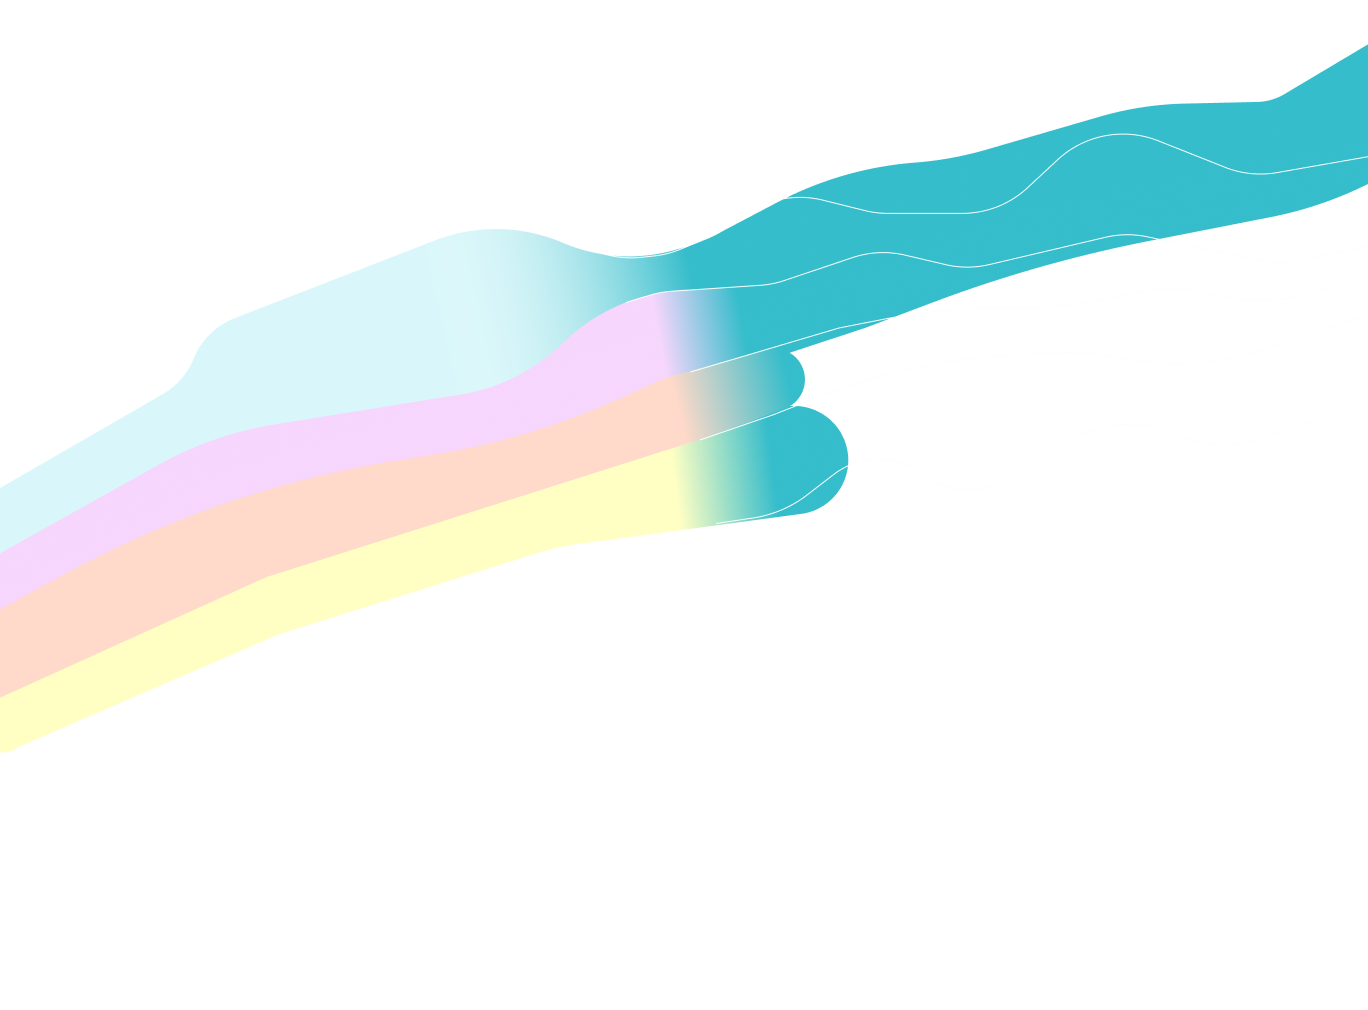
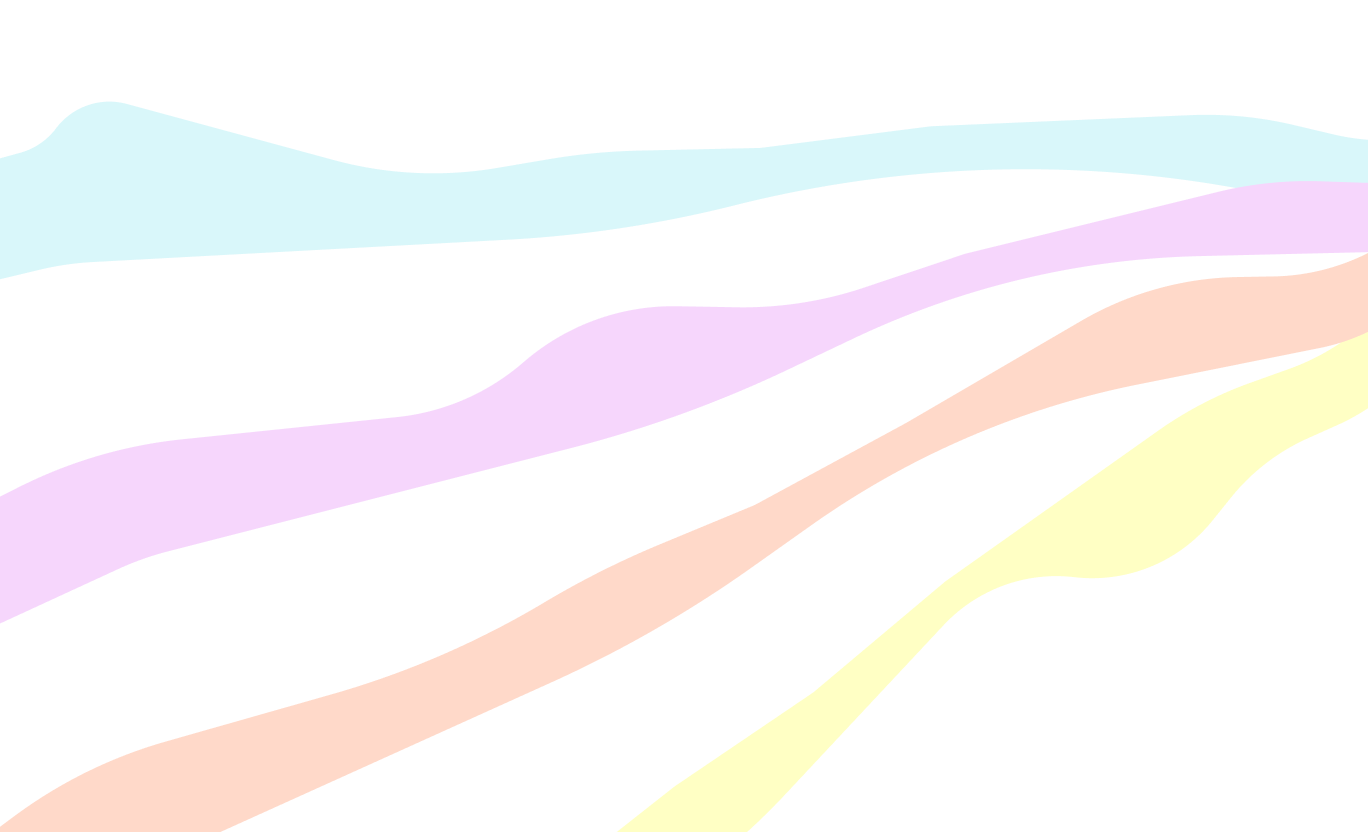
Mobile (#57)
* fix mobile

* fx mobile

* r

* reponsive mobil

diff --git a/src/sass/desktop.scss b/src/sass/desktop.scss
@@ -1,5 +1,6 @@
 @media (min-width:750px){
-  // vestes  
+  // vestes
+  
   .header {
     top:0;
     left:0;
@@ -18,6 +19,7 @@
         display:none;
       }
     }
+  
     .lis {
       position: relative;
       opacity: 1;
@@ -32,7 +34,8 @@
         color:white;
         z-index:1;
       }
-    }  
+    }
+    
     .header__logo{
       margin-top:15px;
       position: absolute;
@@ -48,6 +51,7 @@
     color:white;
     } 
   }
+ 
   .banner {
     background-color: #36BDCB;
     width: 100vw;
@@ -89,6 +93,7 @@
       position: relative;
       bottom: 20vh;
       width: 100vw;
+
     }
     .jackets {
       display: flex;
@@ -168,7 +173,6 @@
       margin-top: 24px;
       margin-bottom: 24px;
       font-family: Montserrat;
-
         a {
           text-decoration:none;
           color:white;
@@ -219,16 +223,15 @@
       font-size: 48px;
       font-family: Baloo;
     }
-    .choose__sections{
+    .yo{
       display: flex;
-      flex-direction: row;
+      flex-direction: column;
       justify-content: center;
       align-items: center;
-      background-image: url("assets/rrainbow.png");
+      background-image: url("assets/Arc-en-Ciel.png");
       background-repeat: no-repeat;
       background-size: 1fr;
       font-family: Montserrat Regular;
-
       }
       .eco__plant{
         display: flex;
@@ -236,6 +239,7 @@
         justify-content: space-evenly;
         align-items: center;
         width:60%;
+   
         p {
           b {
             font-family:Montserrat Semi-Bold;
@@ -250,6 +254,7 @@
         justify-content: space-evenly;
         align-items: center;
         width:60%;
+     
         p {
           b {
             font-family:Montserrat Semi-Bold;
@@ -263,6 +268,7 @@
         justify-content: space-evenly;
         align-items: center;
         width:60%;
+       
         p {
           b {
             font-family:Montserrat Semi-Bold;
@@ -271,35 +277,37 @@
         }
       }
     }
-  .footer {
+   .footer {
     background-color: $footercolor ;
     position: relative;
     top: 13vh;
     height: 8vh;
     display:flex;
-      .text__footer{
-        font-size: 12px;
-        width:24vw;
-        display:flex;
-        justify-content: center;  
-        align-self: center;
-        color:white;
-        font-family:Montserrat Regular;
-      }
-      .icons__footer{
-        display: flex;
-        justify-content: space-evenly;
-        align-items:center;
-        width:52vw;
-        color: #FFFFFF;
-      }
-      .text__footer1{
-        font-size: 12px;
-        display: flex;
-        justify-content:flex-end; 
-        align-items: center;
-        color: #FFFFFF;
-        font-family:Montserrat Regular;
-      }
-  } 
-}
+        .text__footer{
+          font-size: 12px;
+          width:24vw;
+          display:flex;
+          justify-content: center;  
+          align-self: center;
+          color:white;
+          font-family:Montserrat Regular;
+
+        }
+        .icons__footer{
+          display: flex;
+          justify-content: space-evenly;
+          align-items:center;
+          width:52vw;
+          color: #FFFFFF;
+        }
+        .text__footer1{
+          font-size: 12px;
+          display: flex;
+          justify-content:flex-end; 
+          align-items: center;
+          color: #FFFFFF;
+          font-family:Montserrat Regular;
+        }
+       
+      }}
+  

diff --git a/src/sass/mobile.scss b/src/sass/mobile.scss
@@ -142,7 +142,7 @@ li:not(:last-child) {
   li:not(:last-child) {
     margin-bottom: 0;
   }
-    .burger__li {
+  .burger__li {
       opacity: 1;
       font-size: 40px;
       margin: -100px;
@@ -196,7 +196,6 @@ li:not(:last-child) {
       color: white;
       width: 48vw;
       height: auto;
-      margin-top: -24px;
       left: 26%;
       font-family: "Montserrat light";
       position: absolute;
@@ -213,7 +212,7 @@ li:not(:last-child) {
     margin-top: 18%;
     margin-left: 27%;
     }
-  }
+  
     
     //Home
 
@@ -374,10 +373,12 @@ li:not(:last-child) {
     width: 100vw;
     height: auto; 
     margin-top: 26px;
+    background-color: #FFFFFF;
     .eco__title{
       font-size: 48px;
       font-family: "Baloo";
       color: $primarycolor;
+      padding-top: 24px;
     }
     .yo{
       position: relative;
@@ -389,7 +390,7 @@ li:not(:last-child) {
         left: 0;
         position: absolute;
         z-index: -1;
-        top: -24%;
+        top: -2%;
       }
       .eco__pink{
         width: 100vw;
@@ -397,7 +398,7 @@ li:not(:last-child) {
         left: 0;
         position: absolute;
         z-index: -1;
-       top: 20%;
+       top: 32%;
       }
       .eco__orange{
         width: 100vw;
@@ -405,7 +406,7 @@ li:not(:last-child) {
         left: 0;
         position: absolute;
         z-index: -1;
-        top: 32%;
+        top: 62%;
       }
       .eco__yellow{
         width: 100vw;
@@ -413,7 +414,7 @@ li:not(:last-child) {
         left: 0;
         position: absolute;
         z-index: -1;
-        top: 40%;
+        top: 62%;
        
       }
         .eco__plant, .eco__shop, .eco__earth{
@@ -439,10 +440,10 @@ li:not(:last-child) {
           color: $fourthcolor;
         }
 }
-      
+}  
 //Footer
 .footer {
-  height: 150vh;
+  height: 8vh;
   width: 100vw;
   background-color: $footercolor;
   display: flex;

diff --git a/src/index.html b/src/index.html
@@ -12,7 +12,7 @@
 <body>
     <header class="header">
         <img src="assets/img/mobile/landing/header/logo_bee.svg" alt="logo" class="header__logo" />
-        <a href="pages/basket.html" class="cart"><img src="assets/panier.svg" alt="panier" class="header__panier"></a>
+        <a href="pages/cart.html" class="cart"><img src="assets/panier.svg" alt="panier" class="header__panier"></a>
         <nav id='burger__menu'>
             <ul class="lis">
                 <li class="burger__li first__li"><a href="#choose">Concept</a></li>
@@ -121,7 +121,7 @@
             <img src="assets/img/mobile/landing/footer/twitter.svg" alt="Twitter">
             <img src="assets/img/mobile/landing/footer/facebook.svg" alt="Facebook">
         </figure>
-
+        <p class="text__footer1">© Copyright 2020, Bee </p>
     </footer>
     <script defer src='JavaScript/script.js'></script>
 
